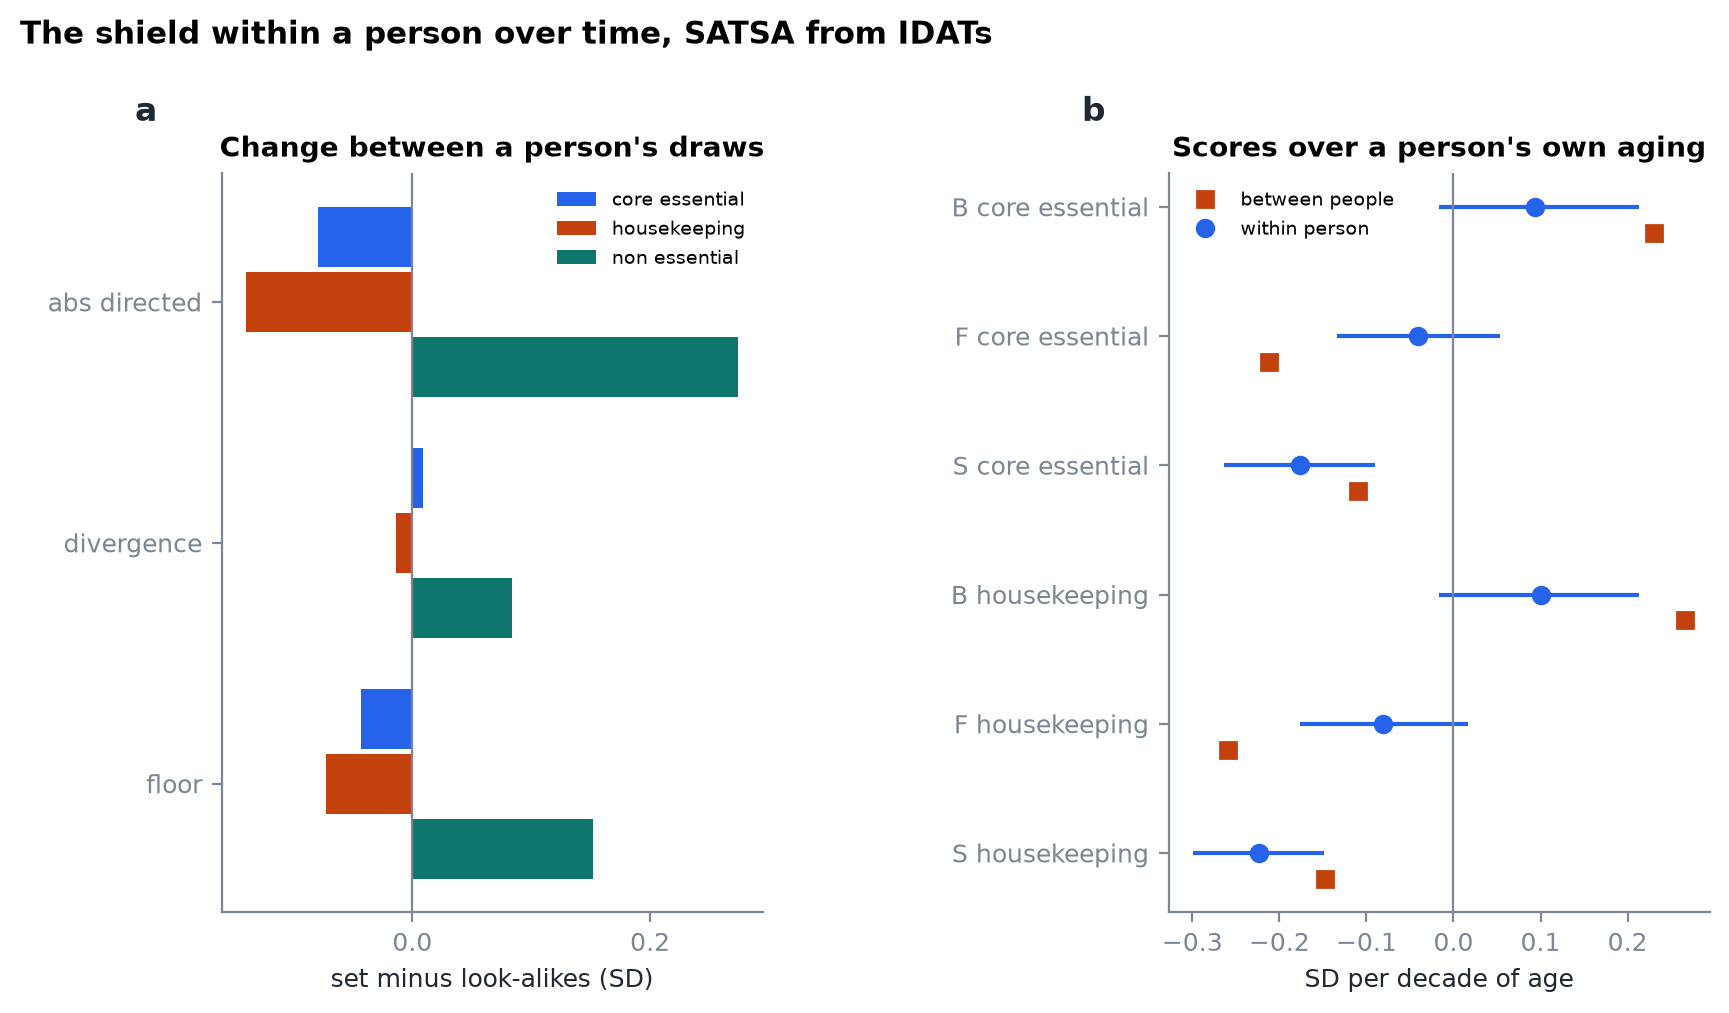
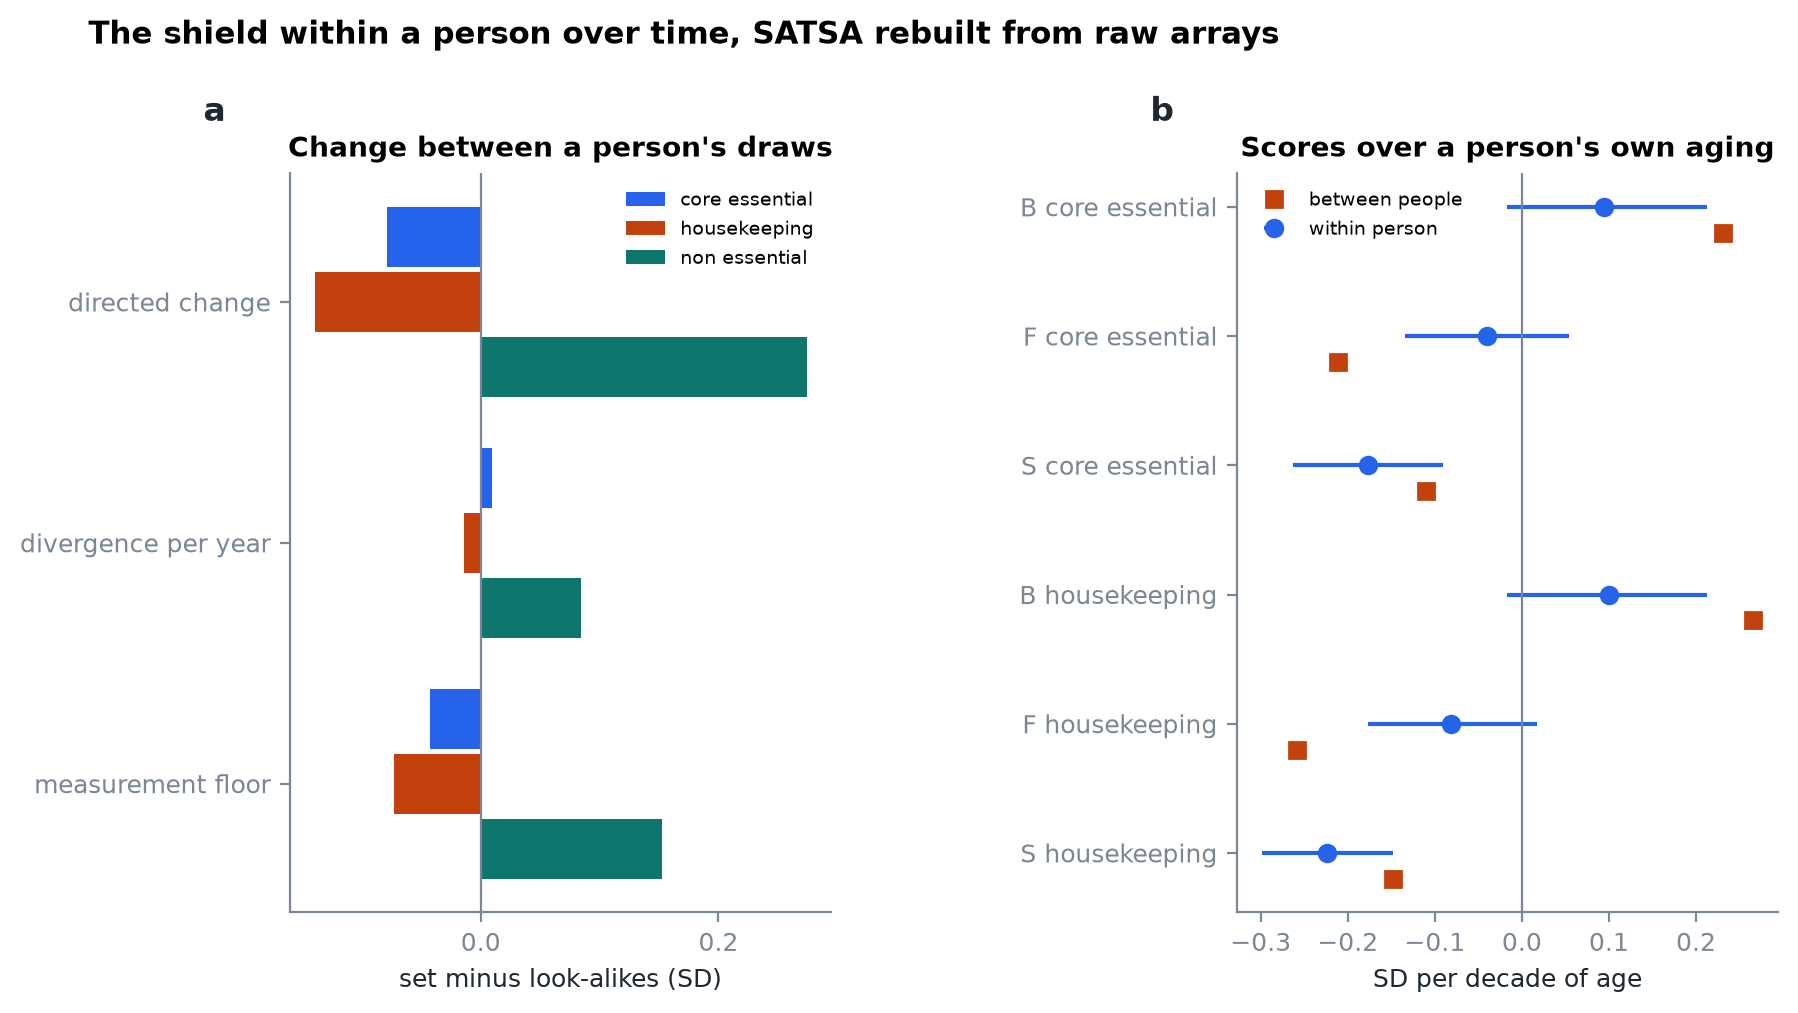
Figures 1, 6, 8, 9 in the house style; Figure 8 plain labels
Seat: entropy-age/lead

diff --git a/src/entropy_age/experiments/within_person.py b/src/entropy_age/experiments/within_person.py
@@ -208,7 +208,7 @@ def run_idats(ctx: Context) -> list[Path]:
         pl.scan_parquet(path).select("cpg", *people["sample"].to_list()).filter(pl.col("cpg").is_in(features)).collect()
     )
     x = frame.drop("cpg").to_numpy().T.astype(float)
-    return analyse(ctx, people, frame["cpg"].to_list(), x, probes, membership, "satsa_idats", "SATSA from IDATs")
+    return analyse(ctx, people, frame["cpg"].to_list(), x, probes, membership, "satsa_idats", "SATSA rebuilt from raw arrays")
 
 
 def run_450k(ctx: Context) -> list[Path]:
@@ -285,7 +285,8 @@ def _figure(ctx: Context, table: pl.DataFrame, slopes: pl.DataFrame, name: str, 
             label=group.replace("_", " "),
         )
     names = table.filter(pl.col("group") == groups[0])["metric"].to_list()
-    ax.set_yticks(np.arange(len(names)) + 0.27, [n.replace("_", " ") for n in names])
+    plain = {"abs_directed": "directed change", "divergence": "divergence per year", "floor": "measurement floor"}
+    ax.set_yticks(np.arange(len(names)) + 0.27, [plain.get(n, n.replace("_", " ")) for n in names])
     ax.axvline(0, color=plots.MUTED, lw=0.8)
     ax.invert_yaxis()
     ax.legend(fontsize=7, loc="upper right")

diff --git a/docs/CHANGELOG.md b/docs/CHANGELOG.md
@@ -4,6 +4,7 @@ Newest first.
 
 ## Unreleased
 
+- 2026-11-24: Figures 1, 6, 8 and 9 redrawn with the house style (bounding box and resolution; earlier redraws outside the command line had skipped it); Figure 8 labels in plain words.
 - 2026-11-24: Figure 9 relabelled: plain odds-ratio ticks (the log axis printed overlapping 8×10⁻¹ labels), readable measure names, a legend in place of the long title; caption names the colours.
 - 2026-11-24: Figure 1 relabelled: plain measure names (relative entropy, not "kl slope"), statement title, panel titles without "Prediction 2", legends off the data; caption rewritten.
 - 2026-11-24: R150 complete: GTEx tissues rerun after the relative-entropy fix (whole blood −0.14 → −0.13, colon −0.19 → −0.18, lung and kidney −0.09 → −0.08); all 15 analyses computed before the fix are now rerun and their numbers rewritten in paper, supplement and artifact.
